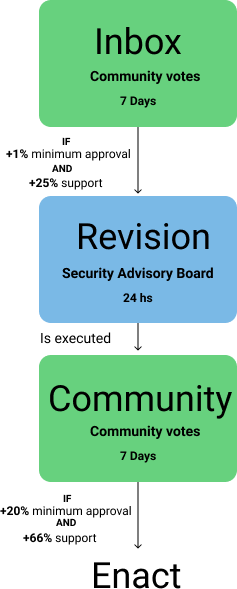
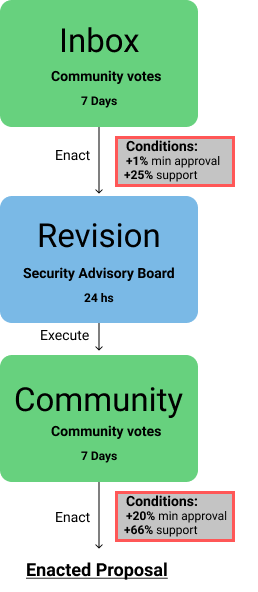
voting cycle polish

diff --git a/_posts/general/2020-09-16-community-voting.md b/_posts/general/2020-09-16-community-voting.md
@@ -97,30 +97,28 @@ A newly created proposal goes through the following stages of revision:
 1. **Inbox filtering**: The community has seven days to view it. This phase serves as an initial filter to find proposals that the community has an interest in.
    _>1 % Minimum Approval and >25% Support needed_
 
+   _After 7 days and if approved, the proposal can be **Enacted** to move to the next stage._
+
 2. **Security Advisory Board revision**: The Security Advisory Board has 24 hours to review the proposal. This phase serves to protect the DAO from proposals that are badly intended or that could harm the ecosystem. At this stage, the Security Advisory Board can choose to reject or delay the proposal. This delay also serves to give community members enough time to register to vote or to wrap MANA before the vote.
+
+   _After 24 hours and if not rejected or delayed, the proposal can be **Executed** to move to the next stage._
 
 3. **Community vote**: Once someone executes the vote for the proposal, the community has another seven days to vote for the proposal. This phase determines if the proposal should be acted upon or not.
    _20 % Minimum Approval and 66 % Support needed_
 
-After stage (2) the voting for the proposal is ready to be _executed_. Executing the proposal means making it enter the final stage, the _Community_ stage.
+   _After 7 days and if approved, the proposal can be **Enacted** so that its changes are made on-chain._
 
-To **execute** a proposal:
-
-- Open the proposal's details.
-- Click the _Execute_ button. If the proposal is not ready, the button will be grayed out.
-- Your browser wallet will require that you approve a transaction
-
-Once the proposal has been approved in the _Community_ stage, then if the proposal has on-chain consequences, these are ready to be _enacted_. This means that the change that the proposal was pushing for gets implemented on the blockchain.
-
-To **enact** a proposal:
+To **enact** or **execute** a proposal:
 
 - Open the proposal's details.
-- Click the _Enact_ button. If the proposal is not ready, the button will be grayed out.
+- Click the _Enact_ or _Execute_ button. If the proposal is not ready, the button will be grayed out.
 - Your browser wallet will require that you approve a transaction
 
-Miscellaneous proposals without on-chain consequences are forwarded to the Decentraland Foundation to be enacted upon by them.
+> Note: Any user with or without voting power can execute or enact proposals. Both these transactions require that you pay a gas fee to the Ethereum network.
 
-> Note: Any user with or without voting power can execute and enact proposals. These transactions require that you pay a gas fee to the Ethereum network.
+If a proposal gathers enough positive votes so that it's assured to succeed, even if all of the remaining voting power were to vote against it, then it's not necessary to wait the full duration of the stage. The same transaction for the vote that makes the proposal reach this level of approval also enacts the proposal.
+
+Miscellaneous proposals without on-chain consequences don't need to be enacted after the final stage, they are forwarded to the Decentraland Foundation to be enacted upon by them.
 
 ### Create a Proposal
 
